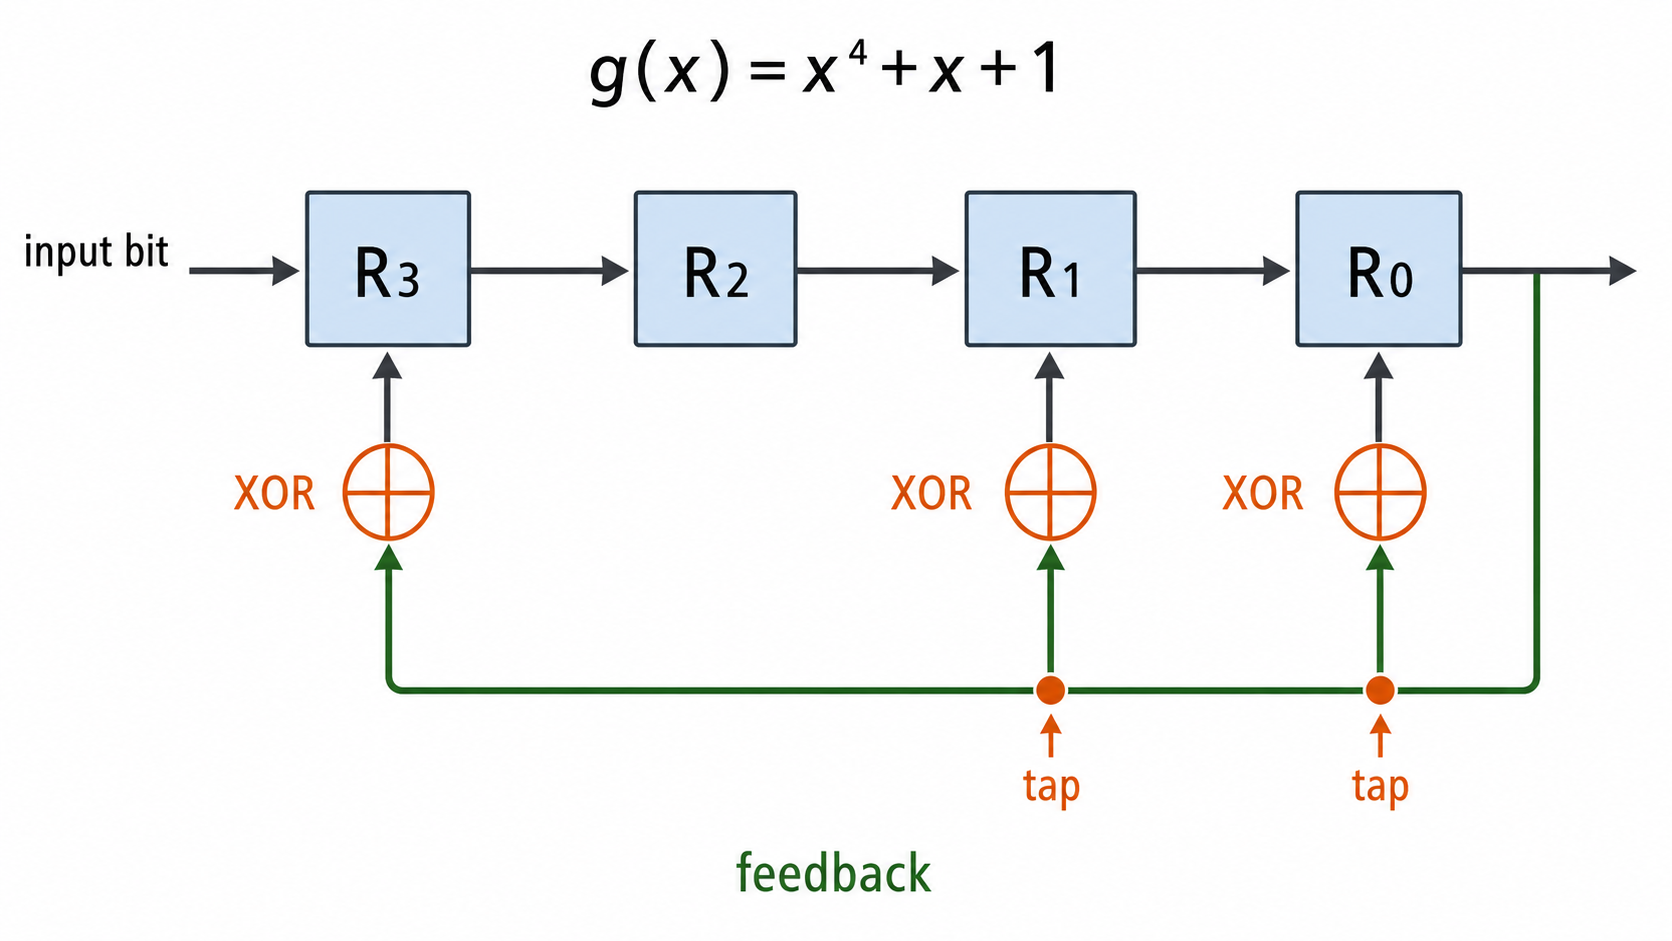
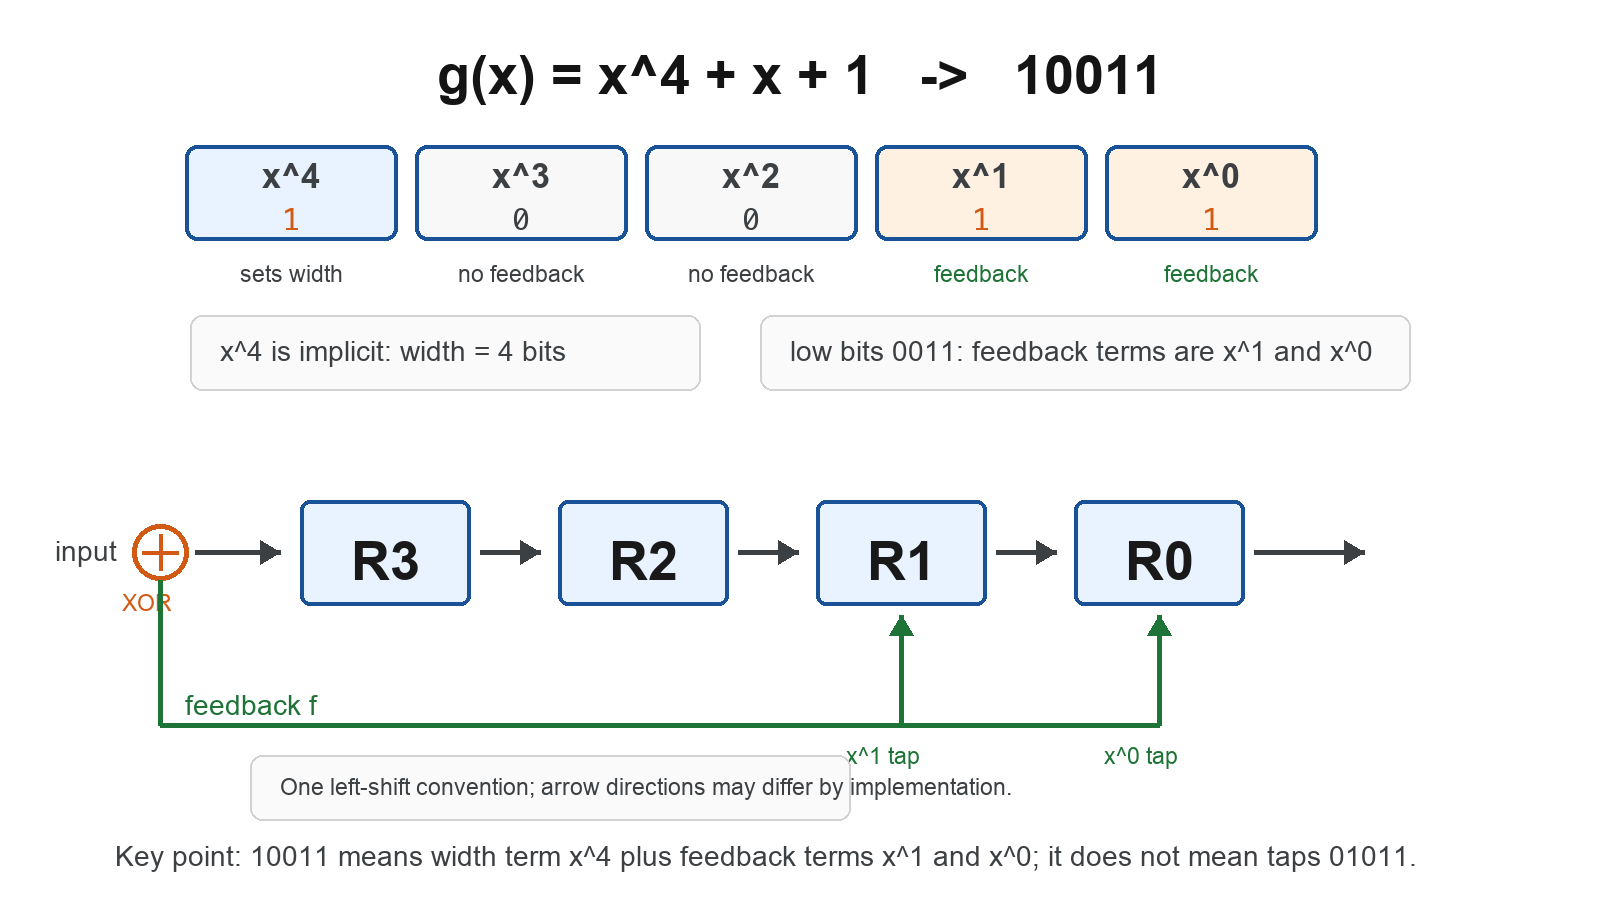
完善 LFSR 抽头说明，强调最高项对寄存器宽度的影响

diff --git a/_posts/2026-06-12-finite-field-generator-polynomial.md b/_posts/2026-06-12-finite-field-generator-polynomial.md
@@ -349,6 +349,8 @@ $$
 
 这正好可以用线性反馈移位寄存器表示。寄存器保存当前余数，输入比特逐个进入；当反馈位为 $1$ 时，把生成多项式中对应的抽头异或到寄存器里。所谓“抽头”，本质上就是生成多项式里哪些系数为 $1$。
 
+需要注意的是，最高项用来决定寄存器宽度，通常不再画成一个额外反馈抽头。比如 $g(x)=x^4+x+1$ 的系数是 `10011`，其中 $x^4$ 表示 4 位余数宽度，真正参与反馈的是低阶项里的 $x$ 和 $1$，也就是低 4 位 `0011`。
+
 ![生成多项式与 LFSR 抽头之间的对应关系](https://raw.githubusercontent.com/Verdvana/Verdvana.github.io/master/_posts/finite-field-generator-polynomial/02-lfsr-taps.png)
 
 ----